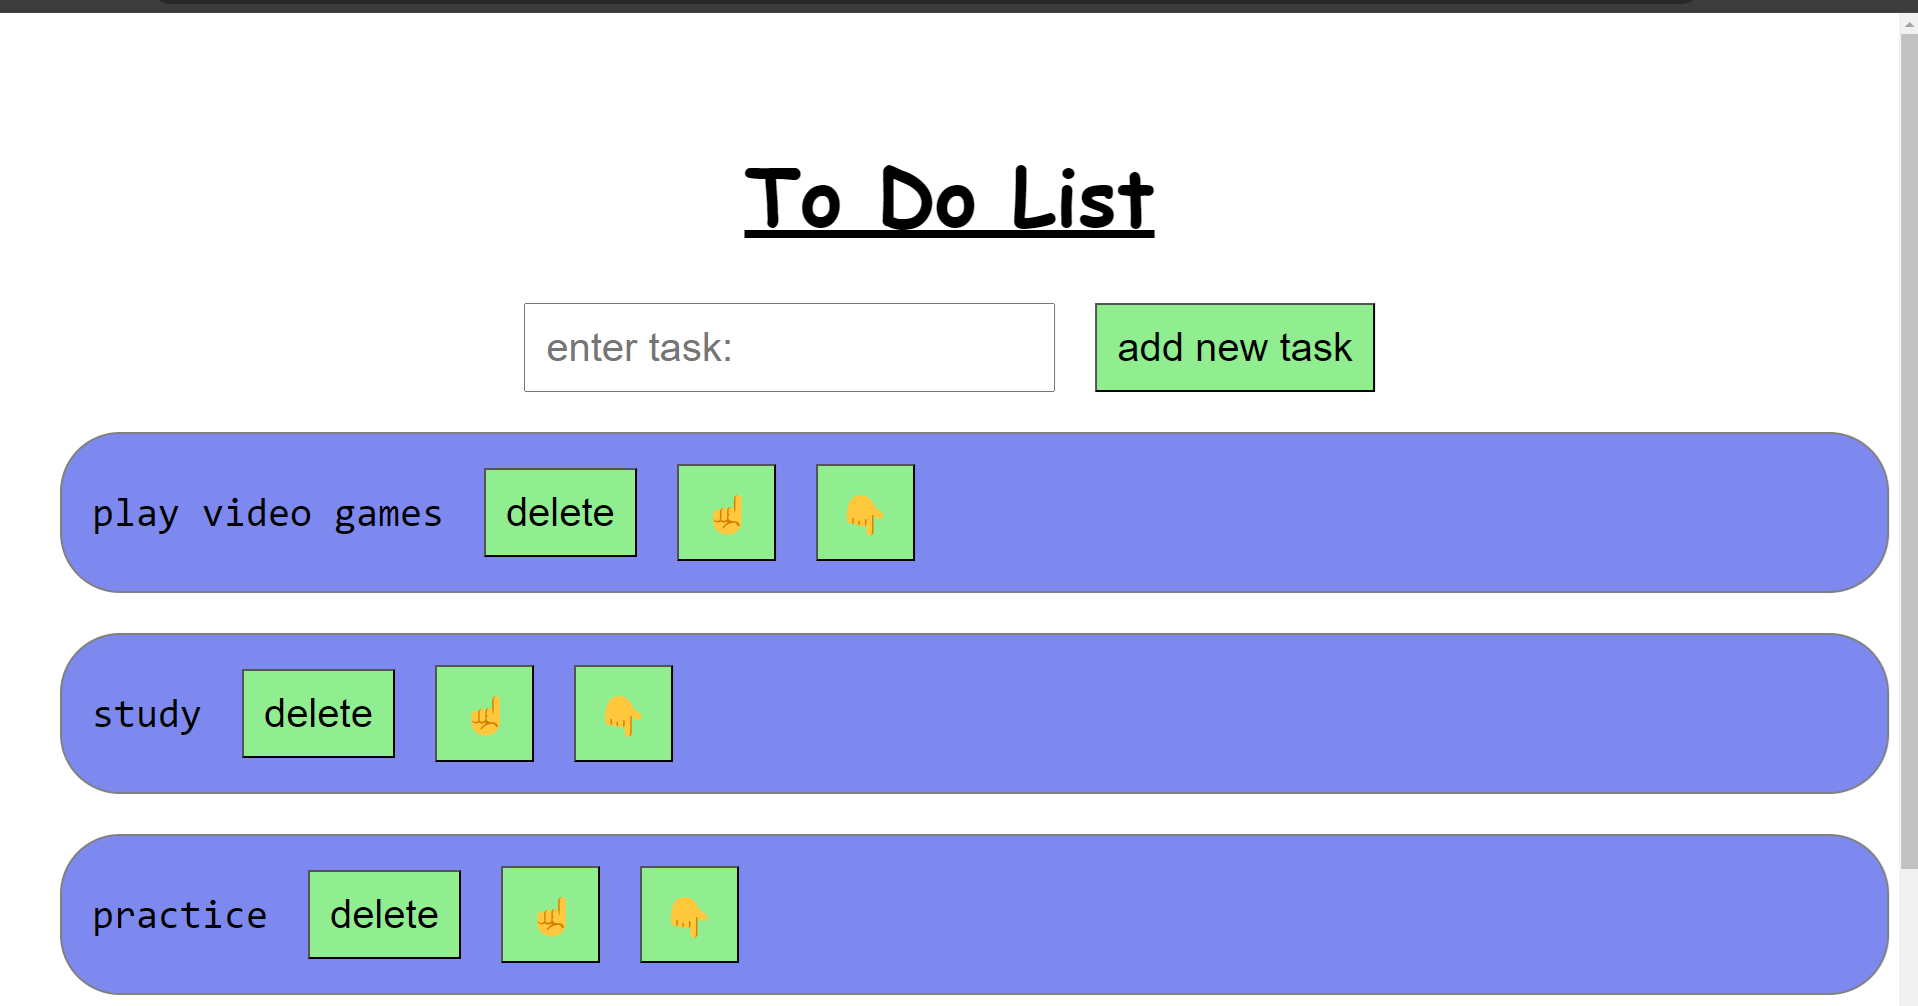
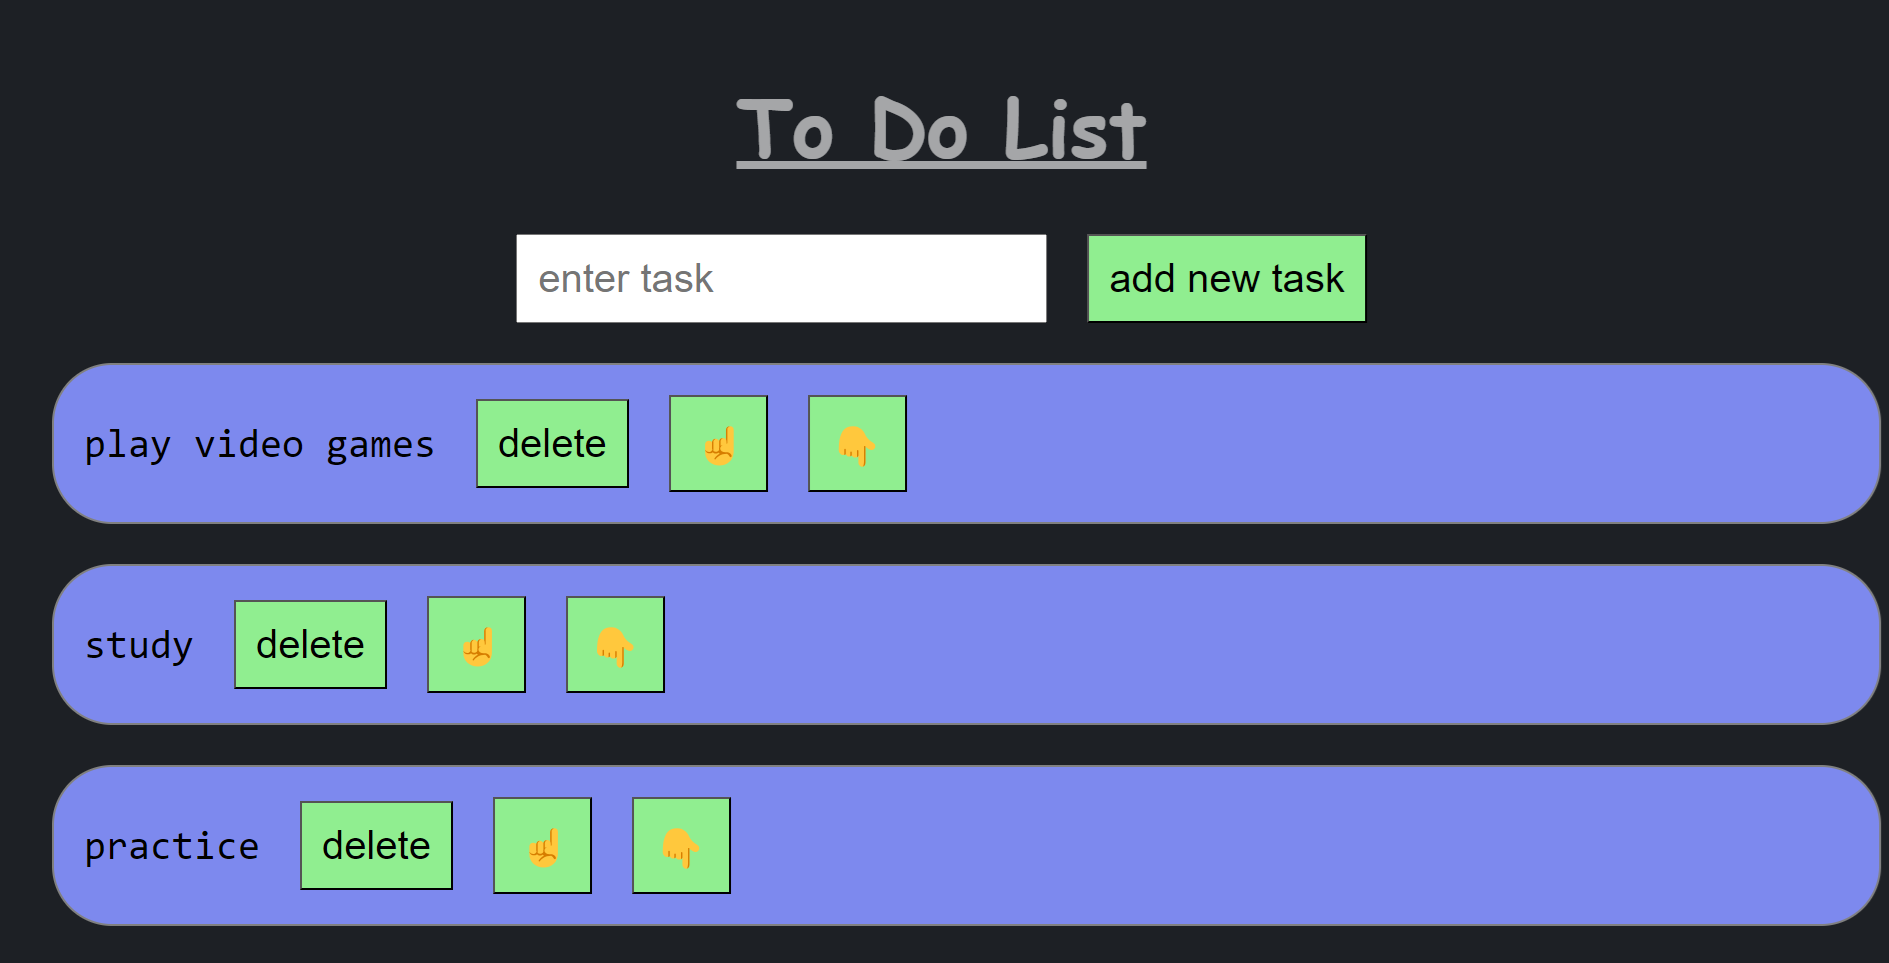
some visual enhacement

diff --git a/todo/src/App.css b/todo/src/App.css
@@ -1,5 +1,5 @@
 body {
-  background-color: #1d2025;
+  background-color: #272c33;
 }
 .todo {
   font-family: monospace;
